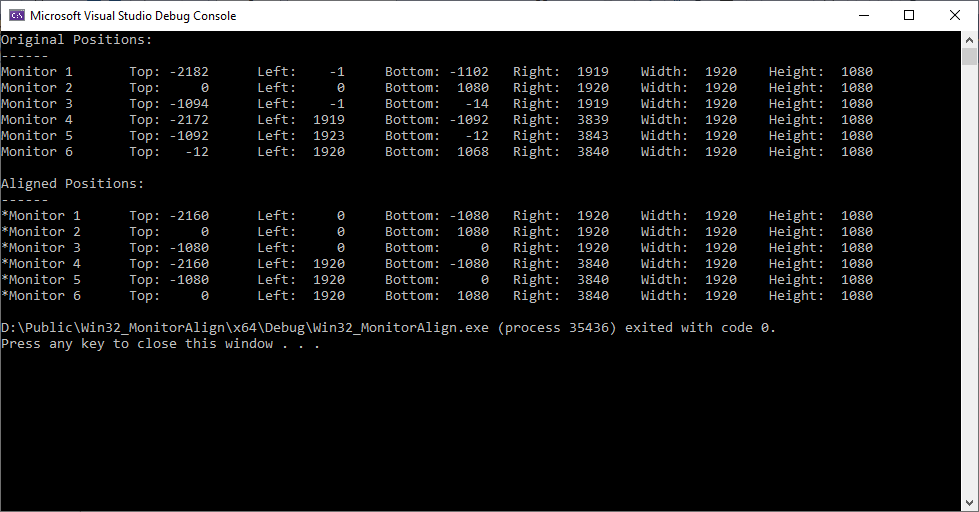
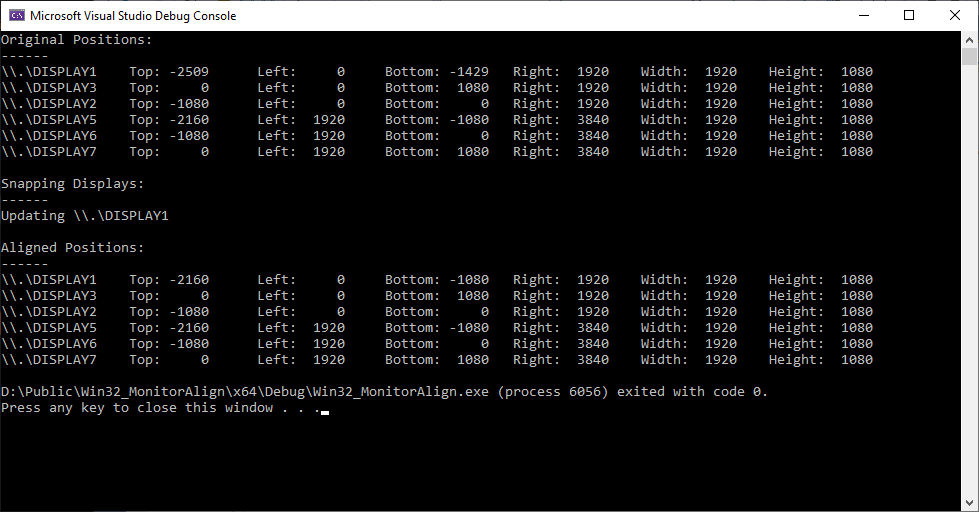
Used enumator instead of display count

diff --git a/main.cpp b/main.cpp
@@ -10,22 +10,26 @@ using namespace std;
 
 BOOL CALLBACK DisplayMonitors(HMONITOR hMonitor, HDC hdcMonitor, LPRECT lprcMonitor, LPARAM dwData)
 {
-	unsigned int* monitorCount = (unsigned int*)dwData;
-	(*monitorCount)++;
 	int top = lprcMonitor->top;
 	int left = lprcMonitor->left;
 	int bottom = lprcMonitor->bottom;
 	int right = lprcMonitor->right;
 	int width = abs(lprcMonitor->left - lprcMonitor->right);
 	int height = abs(lprcMonitor->top - lprcMonitor->bottom);
-	cout << "Monitor " << *monitorCount;
-	cout << "\tTop: " << setw(5) << top;
-	cout << "\tLeft: " << setw(5) << left;
-	cout << "\tBottom: " << setw(5) << bottom;
-	cout << "\tRight: " << setw(5) << right;
-	cout << "\tWidth: " << setw(5) << width;
-	cout << "\tHeight: " << setw(5) << height;
-	cout << endl;
+
+	MONITORINFOEX mi;
+	mi.cbSize = sizeof(mi);
+	if (GetMonitorInfo(hMonitor, &mi))
+	{
+		wcout << mi.szDevice;
+		cout << "\tTop: " << setw(5) << top;
+		cout << "\tLeft: " << setw(5) << left;
+		cout << "\tBottom: " << setw(5) << bottom;
+		cout << "\tRight: " << setw(5) << right;
+		cout << "\tWidth: " << setw(5) << width;
+		cout << "\tHeight: " << setw(5) << height;
+		cout << endl;
+	}
 	return TRUE;
 }
 
@@ -76,23 +80,22 @@ const char* GetErrorMessageString(int result)
 	return "Unknown Error";
 }
 
-void SnapMonitors(const unsigned int monitorCount)
+BOOL CALLBACK SnapMonitors(HMONITOR hMonitor, HDC hdcMonitor, LPRECT lprcMonitor, LPARAM dwData)
 {
 	const unsigned int SNAP_WIDTH = 1920;
 	const unsigned int SNAP_HEIGHT = 1080;
 
-	for (unsigned int display = 1; display <= monitorCount; ++display)
-	{	
+	MONITORINFOEX mi;
+	mi.cbSize = sizeof(mi);
+	if (GetMonitorInfo(hMonitor, &mi))
+	{
 		DEVMODE devMode;
 		ZeroMemory(&devMode, sizeof(devMode));
 		devMode.dmSize = sizeof(devMode);
 
 		devMode.dmFields = DM_POSITION;
 
-		wstring deviceName = L"\\\\.\\DISPLAY";
-		deviceName += to_wstring(display);
-
-		if (EnumDisplaySettings(deviceName.c_str(), ENUM_CURRENT_SETTINGS, &devMode))
+		if (EnumDisplaySettings(mi.szDevice, ENUM_CURRENT_SETTINGS, &devMode))
 		{
 			int x = FindNearest(devMode.dmPosition.x, SNAP_WIDTH);
 			int y = FindNearest(devMode.dmPosition.y, SNAP_HEIGHT);
@@ -101,9 +104,9 @@ void SnapMonitors(const unsigned int monitorCount)
 				devMode.dmPosition.x = x;
 				devMode.dmPosition.y = y;
 
-				wcout << "Updating " << deviceName << endl;
+				wcout << "Updating " << mi.szDevice << endl;
 
-				LONG res = ChangeDisplaySettingsEx(deviceName.c_str(), &devMode, NULL, CDS_UPDATEREGISTRY | CDS_NORESET, NULL);
+				LONG res = ChangeDisplaySettingsEx(mi.szDevice, &devMode, NULL, CDS_UPDATEREGISTRY | CDS_NORESET, NULL);
 				if (res != DISP_CHANGE_SUCCESSFUL)
 				{
 					const char* error = GetErrorMessageString(res);
@@ -116,27 +119,29 @@ void SnapMonitors(const unsigned int monitorCount)
 			}
 		}			
 	}
+	return TRUE;
 }
 
 int main()
 {
 	cout << "Original Positions:" << endl;
 	cout << "------" << endl;
-	unsigned int monitorCount = 0;
-	if (EnumDisplayMonitors(NULL, NULL, DisplayMonitors, (LPARAM)&monitorCount))
+	if (EnumDisplayMonitors(NULL, NULL, DisplayMonitors, NULL))
 	{
 
 	}
 
 	cout << endl;
 
-	SnapMonitors(monitorCount);
+	if (EnumDisplayMonitors(NULL, NULL, SnapMonitors, NULL))
+	{
+
+	}
 
 	cout << "Aligned Positions:" << endl;
 	cout << "------" << endl;
 
-	monitorCount = 0;
-	if (EnumDisplayMonitors(NULL, NULL, DisplayMonitors, (LPARAM)&monitorCount))
+	if (EnumDisplayMonitors(NULL, NULL, DisplayMonitors, NULL))
 	{
 	}
 }
